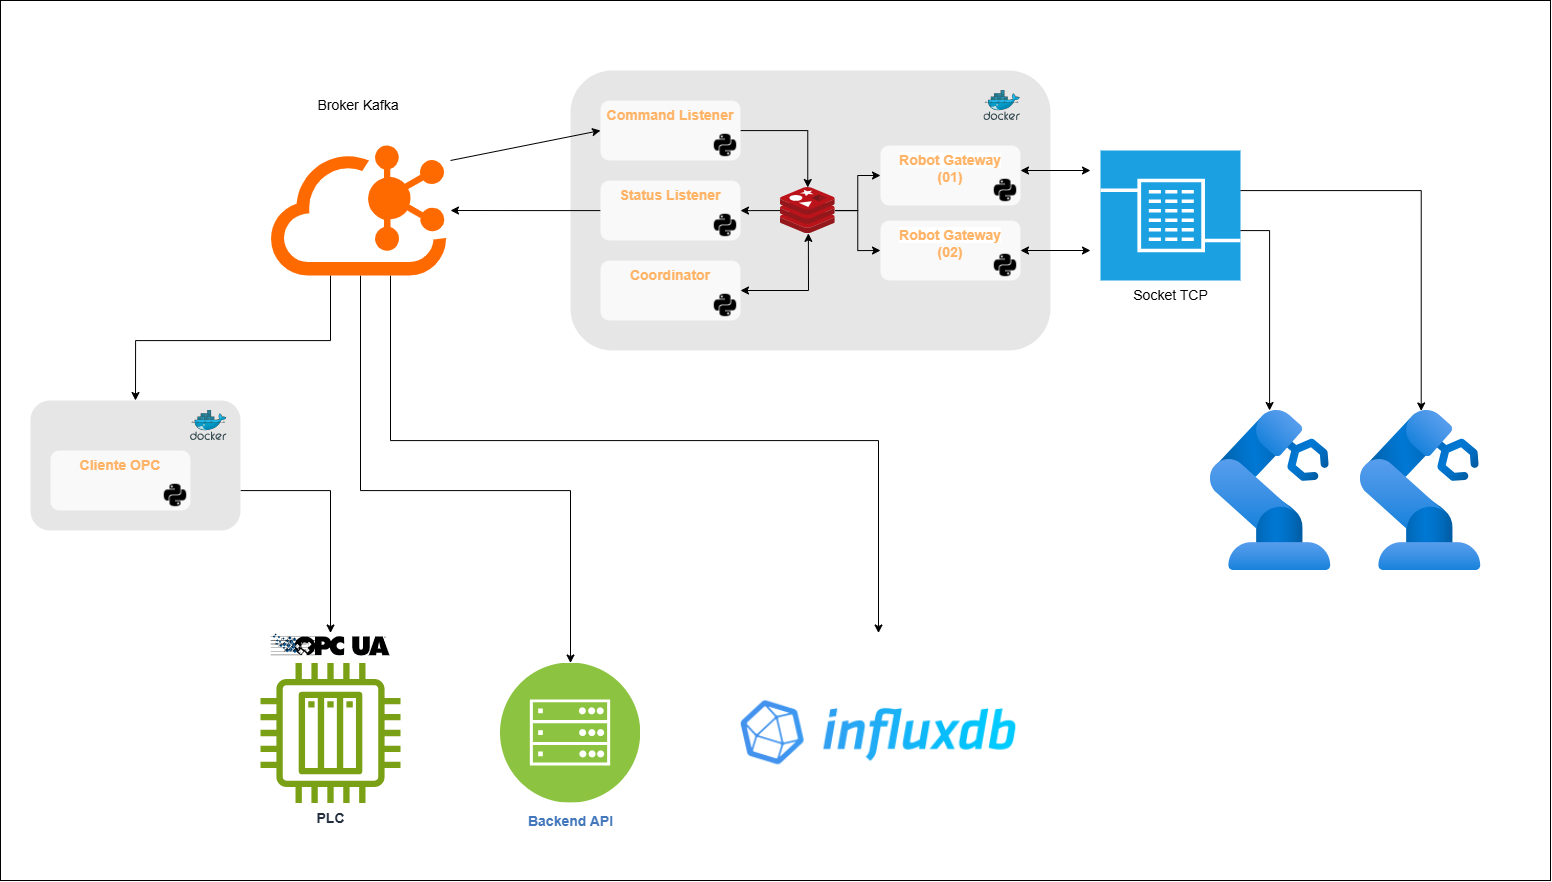
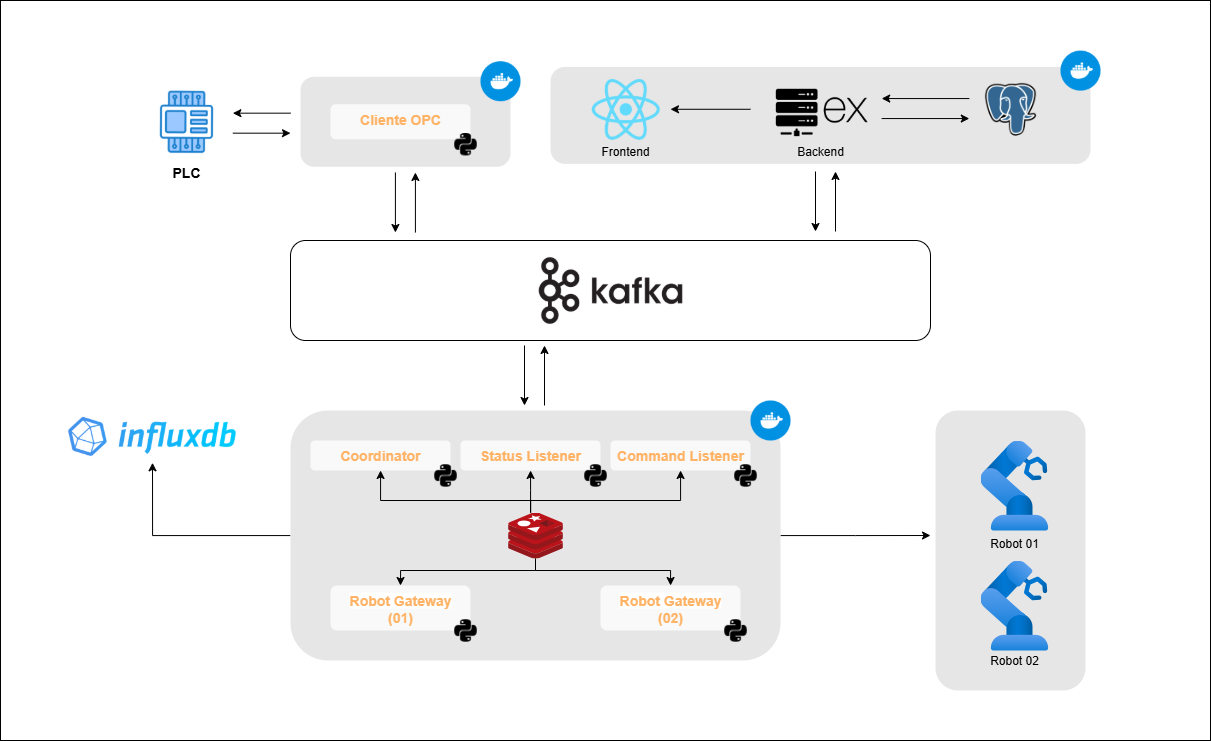
Actualizacion de descripciones

diff --git a/README.md b/README.md
@@ -1,107 +1,70 @@
 # robot_server
-Arquitectura de servidor para lineas con varios protocolos de comunicacion. El objetivo es conseguir que estos recursos puedan ser manejados y consultados mediante una API para mayor flexibilidad, ademas de proporcionar una puerta a integrar mas servicios y caracteristicas como una visualizacion
 
-## Diagrama
+Arquitectura de servidor para líneas industriales con múltiples protocolos de comunicación. El sistema permite que los recursos como robots, PLCs y sensores puedan ser controlados y monitorizados mediante una API centralizada, con soporte para integración de servicios adicionales como dashboards, almacenamiento de métricas o analítica.
+
+## 📊 Diagrama General
+
 ![Diagrama](docs/images/robot_server.png)
 
-## 🔧 Componentes Principales
+## 🧩 Componentes Principales
 
-- **Coordinador**: Administra instrucciones leídas de Redis y envía nuevas órdenes.
-- **Command Listener**: Consume comandos desde Kafka y los publica en Redis.
-- **Status Listener**: Lee estados desde Redis y los publica en Kafka.
-- **Robot Gateway**: Interfaz socket con los robots Borunte (lectura de estado + ejecución de comandos).
+- **Cliente OPC**: Extrae datos desde el PLC mediante protocolo OPC-UA.
+- **Backend API**: Expone servicios para control externo y almacenamiento (Express.js + PostgreSQL).
+- **Frontend**: Visualización e interacción con los recursos conectados (React).
+- **Kafka**: Núcleo de mensajería del sistema para desacoplar el flujo de datos.
+- **InfluxDB**: Base de datos temporal para registrar el historial de estado y métricas de robots.
+- **Módulos Dockerizados**:
+  - `Coordinator`: Orquesta las acciones internas del sistema leyendo comandos desde Redis.
+  - `Command Listener`: Escucha órdenes desde Kafka (`robot.commands`) y las envía a Redis.
+  - `Status Listener`: Publica en Kafka el estado leído desde Redis (`robot.status`).
+  - `Robot Gateway (01, 02)`: Conectores socket que comunican con los robots Borunte (envían y reciben comandos/estado).
 
-Todo el sistema está dockerizado para facilitar el despliegue y mantenimiento.
+Todo el sistema está containerizado usando **Docker** para facilitar despliegue, portabilidad y mantenimiento.
 
+## 📤 Kafka – Sistema de Mensajería
 
-## 📤 Kafka
+Kafka permite la comunicación asíncrona entre módulos desacoplados del sistema.
 
-Kafka es el núcleo del sistema de mensajería. Permite la comunicación desacoplada entre módulos como `command-listener`, `status-listener` y `robot-gateway`.
+### Topics utilizados:
 
-#### Topics utilizados:
+- **`robot.commands`**: Envía órdenes de ejecución a robots o PLCs.
+- **`robot.status`**: Reporta el estado actualizado de los dispositivos.
+- **`robot.responses`**: Respuestas a comandos, incluyendo resultado y errores.
 
-- `robot.commands`: Recibe órdenes para los dispositivos.
-- `robot.status`: Publica el estado actual de los robots o PLCs.
-- `robot.responses`: Envía respuestas a comandos ejecutados.
-
-Cada mensaje es un JSON estructurado que puede incluir datos como `order_id`, `target_id`, parámetros del proceso, y marcas de tiempo.
-
-## 📈 InfluxDB
-
-Todos los datos de estado y métricas de los robots se pueden almacenar en **InfluxDB** para análisis histórico o visualización en dashboards (por ejemplo, Grafana).
-
-
-
-
-<!-- ---
-
-## 🔁 Comunicación con PLC
-
-### 📥 Datos recibidos del PLC
+### Ejemplo de mensaje – `robot.commands`:
 ```json
 {
-  "device_id": "robot1",
-  "position": {"x": 123.4, "y": 456.7, "z": 789.0},
-  "running": true,
-  "alarm_code": 104,
-  "timestamp": "2025-06-24T12:34:56Z"
+  "order_id": "ORD_1001",
+  "target_id": "robot_01",
+  "type": "method",
+  "name": "set_output",
+  "params": ["y13", 1],
+  "timestamp": "2025-07-18T14:00:00Z"
 }
 ```
 
-## Para PLC 
-- Recibe
+## 📈 InfluxDB – Historización y Métricas
+
+Todos los datos periódicos o eventos de estado se pueden registrar en **InfluxDB** para posterior análisis histórico o visualización en tiempo real (por ejemplo, mediante Grafana).
+
+## 🔌 Comunicación con PLC (OPC-UA)
+
+El **Cliente OPC**, en contenedor Python, se conecta a un PLC vía OPC-UA para intercambiar datos de producción.
+
+### Datos de entrada:
+```json
 {
-  "device_id": "robot1",
-  "position": {"x": 123.4, "y": 456.7, "z": 789.0},
+  "device_id": "plc_01",
+  "position": {"x": 125.0, "y": 38.0, "z": 2.5},
   "running": true,
-  "alarm_code": 104,
-  "timestamp": "2025-06-24T12:34:56Z"
+  "alarm_code": 103,
+  "timestamp": "2025-07-18T14:05:00Z"
 }
+```
 
--manda
-{
-  "order_id": "ORD_1001",
-  "target_device": "robot1",
-  "type": "method",
-  "name": "process_01",
-  "params": {
-    "quantity": 5,
-    "dx": 1.2,
-    "dy": -0.3,
-    "dz": 0.0,
-    "speed": 1200
-  }
-}
+## 🤖 Comunicación con Robots (vía Socket)
 
-# Estructura del mensaje:
-# robot.commands
-# {
-#     "order_id": "ORD_20230626123456_borunte_01",
-#     "target_id": "borunte_01",
-#     "type": "method",
-#     "name": "set_output",
-#     "params": ["y13", 1]
-# }
-
-# robot.status
-# {
-#     "target_id": "borunte_01",
-#     "ip": "127.0.0.1",
-#     "online": true,
-#     "status": {
-          "order_id": "...",
-#         "y13": 1
-#     },
-#     "timestamp": "2023-06-26T12:34:56.789Z"
-# }
-
-# robot.responses
-# {
-#     "target_id": "borunte_01",
-#     "type": "method",
-#     "online": True,
-#     "command": method_name,
-#     "result": {"status": True, ...},
-#     "error": None,
-#     "timestamp": "2023-06-26T12:34:56.789Z"
-# } -->
+Cada `Robot Gateway` conecta con un robot Borunte mediante un socket TCP:
+- Recibe comandos estructurados.
+- Devuelve estado y confirmaciones.
+- Cada robot se identifica por un `target_id`.
